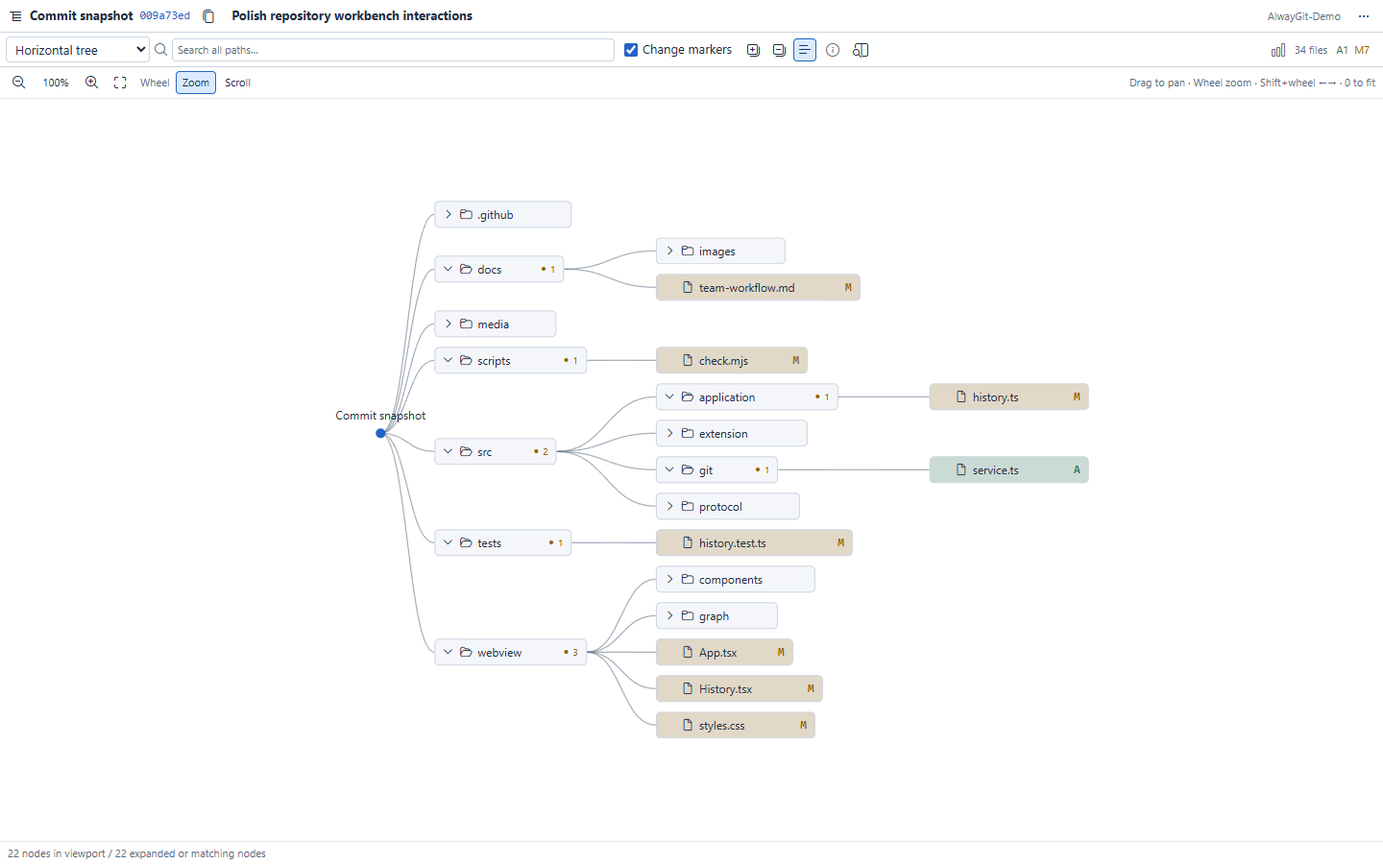
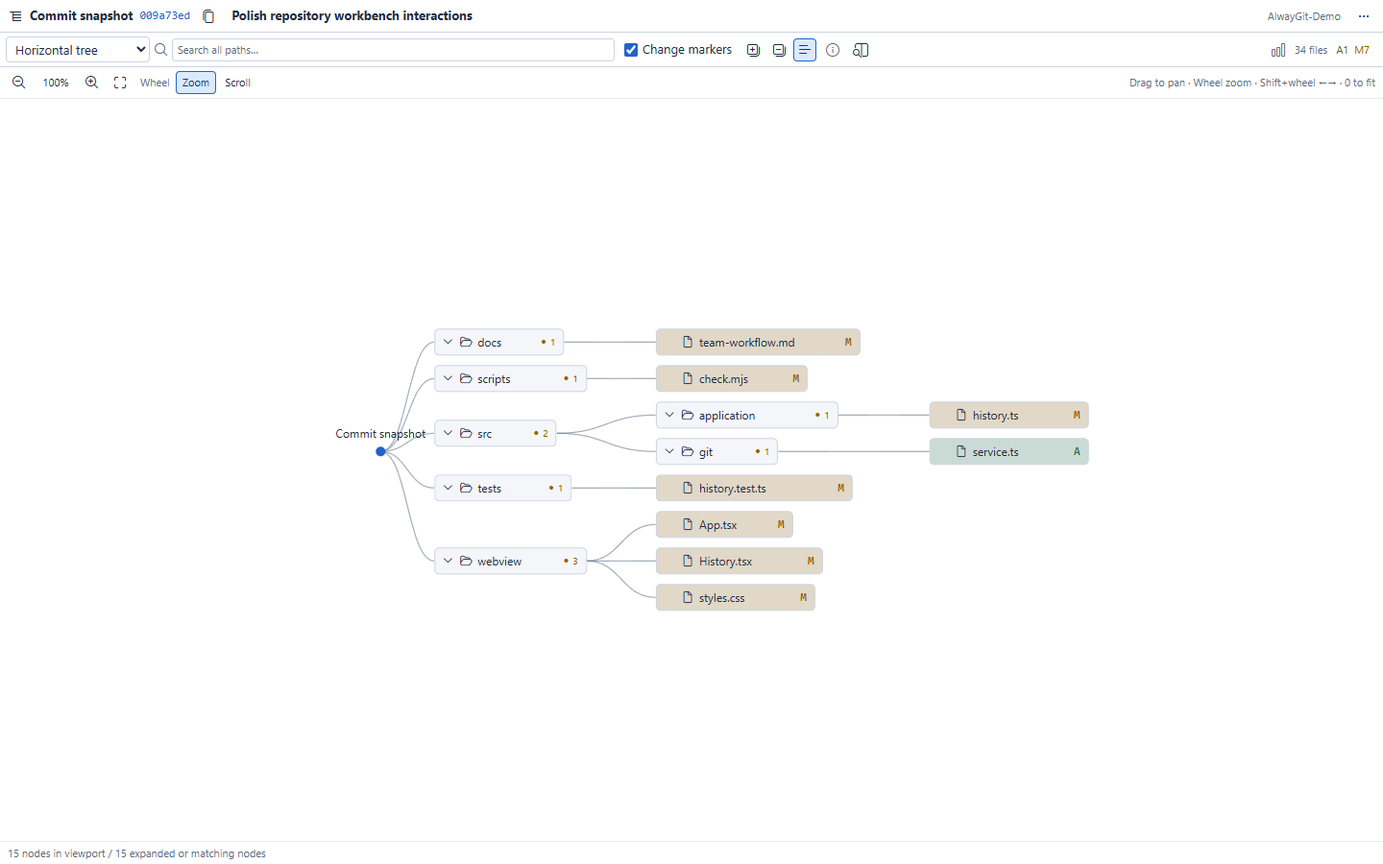
fix: 文件树聚焦时仅显示变更及必要目录

diff --git a/tests/commit-tree.test.ts b/tests/commit-tree.test.ts
@@ -20,8 +20,13 @@ function entry(path: string, type: RevisionTreeEntry['type'] = 'blob'): Revision
   };
 }
 describe('independent Commit snapshots', () => {
-  it('focuses changed leaves while retaining collapsed sibling directories and correct tree guides', () => {
+  it('focuses changed leaves and their ancestors with correct guides even after manual expansion', () => {
     const entries = [
+      entry('.github', 'tree'),
+      entry('.github/workflows', 'tree'),
+      entry('.github/workflows/ci.yml'),
+      entry('media', 'tree'),
+      entry('media/icon.png'),
       entry('README.md'),
       entry('src', 'tree'),
       entry('src/components', 'tree'),
@@ -33,6 +38,8 @@ describe('independent Commit snapshots', () => {
       entry('src/utils/helper.ts'),
       entry('docs', 'tree'),
       entry('docs/guide.md'),
+      entry('docs/images', 'tree'),
+      entry('docs/images/workbench.png'),
     ];
     const nodes = snapshotNodes(entries, [
         { path: 'src/components/Editor.vue', status: 'M' } as RevisionTreeChange,
@@ -42,16 +49,13 @@ describe('independent Commit snapshots', () => {
       before = JSON.stringify(nodes),
       focused = snapshotRows(nodes, expanded, '', { changesOnly: true });
     expect(focused.map((row) => row.node.entry.path)).toEqual([
-      'docs',
       'src',
       'src/components',
-      'src/components/dialogs',
       'src/components/Editor.vue',
-      'src/utils',
     ]);
     expect(focused.find((row) => row.node.change)).toMatchObject({
       depth: 2,
-      guides: [false, true],
+      guides: [false, false],
       last: true,
       changeHighlight: 'M',
     });
@@ -60,14 +64,18 @@ describe('independent Commit snapshots', () => {
         (row) => row.node.entry.path,
       ),
     ).toEqual(['src/components/Toolbar.vue']);
-    const revealed = snapshotRows(nodes, new Set([...expanded, 'docs']), '', {
-      changesOnly: true,
-      revealedDirectories: new Set(['docs']),
-    });
-    expect(revealed.some((row) => row.node.entry.path === 'docs/guide.md')).toBe(true);
-    expect(revealed.some((row) => row.node.entry.path === 'src/components/Toolbar.vue')).toBe(
-      false,
-    );
+    expect(
+      snapshotRows(nodes, expanded, 'guide.md', { changesOnly: true }).map(
+        (row) => row.node.entry.path,
+      ),
+    ).toEqual(['docs/guide.md']);
+    expect(
+      snapshotRows(nodes, new Set(flat.map((node) => node.id)), '', { changesOnly: true }),
+    ).toEqual(focused);
+    expect(snapshotRows(nodes, new Set(), '', { changesOnly: true })).toMatchObject([
+      { node: { id: 'src' }, depth: 0, guides: [], last: true, changeHighlight: 'summary' },
+    ]);
+    expect(snapshotRows(nodes, expanded, '', { changesOnly: true })).toEqual(focused);
     expect(JSON.stringify(nodes)).toBe(before);
     expect(
       snapshotRows(nodes, new Set(flat.map((node) => node.id))).map((row) => row.node.entry.path),
@@ -117,11 +125,7 @@ describe('independent Commit snapshots', () => {
       node: { deleted: true },
       depth: 2,
     });
-    expect(
-      snapshotRows(snapshotNodes(entries), new Set(), '', { changesOnly: true }).every(
-        (row) => row.node.entry.type === 'tree',
-      ),
-    ).toBe(true);
+    expect(snapshotRows(snapshotNodes(entries), new Set(), '', { changesOnly: true })).toEqual([]);
   });
   it('retains only a fixed repository and full Commit ID when restoring a tree tab', () => {
     const state = { commitTree: { repoId: 'repository', revision: 'a'.repeat(40) } };

diff --git a/webview/CommitTree.tsx b/webview/CommitTree.tsx
@@ -41,7 +41,6 @@ import { treeDirectoryExpanded } from '../src/protocol/tree-expansion';
 interface ChangeFocus {
   key: string;
   expanded: ReadonlySet<string>;
-  revealedDirectories: ReadonlySet<string>;
 }
 
 export function CommitTree({
@@ -286,7 +285,6 @@ export function CommitTree({
     () =>
       snapshotRows(nodes, expanded, query, {
         changesOnly: !!changeFocus,
-        revealedDirectories: changeFocus?.revealedDirectories,
       }),
     [nodes, expanded, query, changeFocus],
   );
@@ -362,7 +360,6 @@ export function CommitTree({
                 .filter((node) => node.entry.type === 'tree' && node.summary)
                 .map((node) => node.id),
             ),
-            revealedDirectories: new Set(),
           },
     );
     setFitRequest((value) => value + 1);
@@ -373,16 +370,10 @@ export function CommitTree({
       stopExpansion();
       const opened = !expanded.has(node.id);
       if (changeFocus) {
-        const next = new Set(changeFocus.expanded),
-          revealed = new Set(changeFocus.revealedDirectories);
-        if (opened) {
-          next.add(node.id);
-          revealed.add(node.id);
-        } else {
-          next.delete(node.id);
-          revealed.delete(node.id);
-        }
-        setFocusedChanges({ ...changeFocus, expanded: next, revealedDirectories: revealed });
+        const next = new Set(changeFocus.expanded);
+        if (opened) next.add(node.id);
+        else next.delete(node.id);
+        setFocusedChanges({ ...changeFocus, expanded: next });
         return;
       }
       setTemporaryExpanded((current) => {

diff --git a/webview/commitTreeModel.ts b/webview/commitTreeModel.ts
@@ -154,7 +154,7 @@ export function snapshotRows(
   nodes: SnapshotNode[],
   expanded: ReadonlySet<string>,
   query = '',
-  options: { changesOnly?: boolean; revealedDirectories?: ReadonlySet<string> } = {},
+  options: { changesOnly?: boolean } = {},
 ): SnapshotRow[] {
   const rows: SnapshotRow[] = [],
     needle = query.trim().toLocaleLowerCase();
@@ -167,11 +167,9 @@ export function snapshotRows(
     const status = node.change.status[0];
     return status in countKeys ? (status as SnapshotChangeHighlight) : 'M';
   };
-  const visit = (list: SnapshotNode[], guides: boolean[], revealUnchanged = false) => {
+  const visit = (list: SnapshotNode[], guides: boolean[]) => {
     const visible =
-      needle || !options.changesOnly || revealUnchanged
-        ? list
-        : list.filter((node) => node.entry.type === 'tree' || node.change);
+      needle || !options.changesOnly ? list : list.filter((node) => node.change || node.summary);
     visible.forEach((node, index) => {
       const last = index === visible.length - 1;
       if (needle) {
@@ -180,8 +178,7 @@ export function snapshotRows(
         visit(node.children, []);
       } else {
         rows.push({ node, depth: guides.length, guides, last, changeHighlight: highlight(node) });
-        if (expanded.has(node.id))
-          visit(node.children, [...guides, !last], options.revealedDirectories?.has(node.id));
+        if (expanded.has(node.id)) visit(node.children, [...guides, !last]);
       }
     });
   };

diff --git a/src/i18n/generated.ts b/src/i18n/generated.ts
@@ -7263,8 +7263,8 @@ export const catalog = {
     "zh-CN": "调整文件树与预览大小"
   },
   "tree.expandChanges": {
-    "en": "Only expand changed files",
-    "zh-CN": "只展开修改文件"
+    "en": "Show changes only",
+    "zh-CN": "只显示变更"
   },
   "tree.comparisonBase": {
     "en": "Compared with",

diff --git a/docs/WORKBENCH_SPEC.en.md b/docs/WORKBENCH_SPEC.en.md
@@ -260,7 +260,7 @@ File trees offer Directory list, Horizontal tree, Radial tree, and Compact verti
 
 The divider between the file tree and preview supports pointer dragging and keyboard arrows, Home, and End, retaining usable minimum sizes on both sides. Wide windows split horizontally; narrow windows stack vertically. The current tab remembers separate ratios for each orientation across closing/reopening the preview and switching layouts, bounded by available space. Resizing the divider or window preserves the canvas scale and reading center; Fit remains available explicitly.
 
-Folder expansion state is local cache stored by repository ID in extension global storage for the current VS Code user profile. The same repository shares it across workspaces, commits, branches, single-commit and two-commit comparisons, and all four layouts; repositories remain isolated. Reading or managing the cache migrates legacy records from the current workspace, deleting each legacy record only after a successful save. Legacy records from other workspaces migrate when those workspaces are opened. Cache contains only an automatic/expanded/collapsed mode and repository-relative directory paths explicitly chosen by the user, without per-Commit expansion snapshots. Clicking a directory remembers its choice. Completing Expand All remembers expanded mode; Collapse All remembers collapsed mode. Both clear individual overrides. Cancelling batched expansion, searching, and Only expand changed files affect only the temporary view; manually opening or closing folders while focused also leaves the cache unchanged. Collapsing a parent retains child choices. Missing paths retain their cache without applying it; a file at a formerly remembered directory path ignores the choice, and renames are not inferred. Historical virtual directories also use their paths for preferences.
+Folder expansion state is local cache stored by repository ID in extension global storage for the current VS Code user profile. The same repository shares it across workspaces, commits, branches, single-commit and two-commit comparisons, and all four layouts; repositories remain isolated. Reading or managing the cache migrates legacy records from the current workspace, deleting each legacy record only after a successful save. Legacy records from other workspaces migrate when those workspaces are opened. Cache contains only an automatic/expanded/collapsed mode and repository-relative directory paths explicitly chosen by the user, without per-Commit expansion snapshots. Clicking a directory remembers its choice. Completing Expand All remembers expanded mode; Collapse All remembers collapsed mode. Both clear individual overrides. Cancelling batched expansion, searching, and Show changes only affect only the temporary view; manually opening or closing folders while focused also leaves the cache unchanged. Collapsing a parent retains child choices. Missing paths retain their cache without applying it; a file at a formerly remembered directory path ignores the choice, and renames are not inferred. Historical virtual directories also use their paths for preferences.
 
 Settings → Local cache lists repositories with saved folder expansion state, including removed repositories, without requiring a selected or reopened repository. Entries show names, paths, registration status, and directory record counts. Legacy entries with missing metadata retain their repository ID, and unknown registration status is explicitly marked. Individual, selected, and all repositories can be cleared after confirmation; removed repositories have a selection shortcut. Clearing takes effect immediately and cannot be reversed by cancelling Settings. It deletes only folder expansion cache and restores automatic mode, preserving repository files, Git history, drafts, and other settings. Legacy workspace copies of cleared repositories are never imported again. Clearing all also blocks old folder state from unopened workspaces, while new directory choices remain writable. Tree tabs for the repository in the same extension host receive default preferences; other windows obtain saved state when they read it again.
 
@@ -270,7 +270,7 @@ The file-tree toolbar information icon explains automatic saving, restoration on
 
 Independent tree tabs use a compact two-row top area in wide windows. The first row shows the view type, Commit ID or base → target direction, a single-line subject, and repository name; Snapshot details opens an overlay containing the full message, author/date, full IDs, and repository path. The toolbar combines presentation, path search, Change markers, directory actions, preview, and compact statistics, omitting zero submodules and zero-valued change categories. The statistics overlay retains complete counts, comparison baseline, and the virtual-deletion explanation. Merge Parent remains in the toolbar while markers are enabled. Narrow windows progressively hide secondary metadata and move directory/preview actions into More tree actions; narrow toolbars wrap as needed, retaining a usable Merge Parent selector even at the smallest widths. Overlays leave tree/graph space unchanged and close with their close button, Escape, or an outside click. Separate steady-state count/comparison rows are removed; loading/expansion progress, the first-use memory hint, and errors remain visible when needed. All four layouts share this header without changing file row height.
 
-For single commits, “Change markers” defaults off. When enabled, the complete snapshot receives themed letter badges: A for additions, M for content or mode changes, R for renames/moves, C for copies, and T for type changes. Renames decorate only the destination and show the original path. Deleted entries use D, strikethrough, and an explicit virtual-entry label at the old location; missing historical directories contain only deleted entries. Real files, real directories, and historical entries with the same path remain distinct. Directory markers summarize descendant changes. A collapsed directory highlights its summary; after expansion, only actual changed entries and still-collapsed changed subdirectories receive highlights. Expanded ancestors retain summary markers without their own highlights. All four layouts use this rule from the expanded structure before canvas viewport clipping; matching directories in flat search retain their own summary highlight. Snapshot file/submodule totals count only real entries; deletion counts remain separate. The comparison defaults to the first parent; selecting a Merge Parent changes markers, statistics, and change previews without changing the snapshot. Root commits compare against an empty tree. Missing shallow-parent objects disable changes while preserving snapshot browsing. Only expand changed files toggles a temporary focus: it opens changed files’ ancestors, collapses other directories, and hides unchanged sibling files while keeping unrelated directory nodes. Manually opening a directory reveals its ordinary files. Clicking again restores saved expansion preferences. Expand All, Collapse All, disabling markers, or changing the comparison target exits focus. Search still covers the complete snapshot; clearing it restores focus. Focus survives layout switches and fits the graph when activated. The action is disabled until indexing and changes are ready, or when there are no changes. Unchanged files preview their saved content; changed files preview their selected-parent Diff, with an empty deleted side.
+For single commits, “Change markers” defaults off. When enabled, the complete snapshot receives themed letter badges: A for additions, M for content or mode changes, R for renames/moves, C for copies, and T for type changes. Renames decorate only the destination and show the original path. Deleted entries use D, strikethrough, and an explicit virtual-entry label at the old location; missing historical directories contain only deleted entries. Real files, real directories, and historical entries with the same path remain distinct. Directory markers summarize descendant changes. A collapsed directory highlights its summary; after expansion, only actual changed entries and still-collapsed changed subdirectories receive highlights. Expanded ancestors retain summary markers without their own highlights. All four layouts use this rule from the expanded structure before canvas viewport clipping; matching directories in flat search retain their own summary highlight. Snapshot file/submodule totals count only real entries; deletion counts remain separate. The comparison defaults to the first parent; selecting a Merge Parent changes markers, statistics, and change previews without changing the snapshot. Root commits compare against an empty tree. Missing shallow-parent objects disable changes while preserving snapshot browsing. Show changes only toggles a temporary focus: it retains only A/M/D/R/C/T entries and their necessary ancestor directories, opening those ancestors automatically. Unrelated directories and unchanged files are hidden at every level, including unchanged top-level branches. Historical directories containing only deletions retain the necessary paths. Manually closing or reopening directories while focused still shows only changes; exit focus or use search to browse ordinary files. Clicking again restores saved expansion preferences. Expand All, Collapse All, disabling markers, or changing the comparison target exits focus. Search still covers the complete snapshot; clearing it restores focus. Focus survives layout switches and fits the graph when activated. The action is disabled until indexing and changes are ready, or when there are no changes. Unchanged files preview their saved content; changed files preview their selected-parent Diff, with an empty deleted side.
 
 With exactly two Commits selected, Graph's context menu offers “View file tree differences”; the two-commit comparison details heading provides the same action as an icon. The independent tab binds one repository and two full base/target OIDs, reusing tabs with the same direction. Opening reuses a matching displayed comparison direction or the ordinary Commit comparison's ancestor order. A direction explicitly swapped in details is preserved; timestamps never determine order. The page labels base → target and compares the two trees directly without using a merge base. The complete target tree forms the snapshot, with “Change markers” enabled initially and an option to hide markers. Markers, virtual deletions, and previews follow the single-commit rules; deleted historical contents come from the base, and snapshot totals exclude deletions. Two-commit tabs have no Parent selector. Reverse opens or activates the fixed reverse-comparison tab without rebinding the current tab or changing main-workbench selection or drafts. Single-commit Browse Commit Tree and exactly-two-commit View file tree differences appear in a separated final group at the bottom of their Graph context menus; other multi-selection counts have no tree-comparison entry.
 

diff --git a/docs/USER_MANUAL.en.md b/docs/USER_MANUAL.en.md
@@ -8,7 +8,7 @@ Select More actions → Help & Guide, with its question-mark icon, in the upper-
 
 <a id="screenshot-notes"></a>
 
-**About the screenshots:** Both editions share the same images. Figures 51–52 were captured on 2026-10-30 from the 1.8.0 source build (source baseline `e7b7e0f`), using the same `AlwayGit-Demo` sample snapshot for a horizontal tree with change markers and a complete radial tree. Both READMEs reuse these images.  Figures 03, 06, and 14 were captured on 2026-10-29 from the 1.8.0 source build (UI baseline `0c956b5`), showing two topic commits on the Merge side lane, 18 px lane spacing, continuous path colors, and node outlines matching their paths. Figures 04–05, 07, 09, 11, 13, 18, 23, 29, 38, 40–47, and 49–50 were captured on 2026-10-28 from the 1.8.0 source build (UI baseline `67d3097`), reflecting the default unified list, current selection states, and Diff styles. Figure 49 explicitly demonstrates optional split mode; Figure 50 shows the navigation boundary notice. Figures 05 and 38 retain their original settings scenes and omit the later path-display and wrapping options; use the current interface for those reading preferences. Other figures retain their 2026-10-24 source. Some still show the old sample name `AlwayGit`, original paths, and surrounding toolbar; the main sample repository is now `AlwayGit-Demo`. These differences do not change the dialog operations illustrated. Background Graphs in other images retain the original sample history; see [history filtering](#section-04-01) for how to read the current graph. Images show actual Workbench components with an English interface, the default theme on a light host, and sample data; the language page previews Chinese. Repository, author, Commit ID, history, Git-operation, and terminal states come from isolated sample RPC data, not real project records or validation of real remotes, authentication, Git, or terminal execution. The narrow sidebar figure demonstrates region navigation at that viewport size. Images exclude native VS Code chrome, native confirmations, and system folder pickers. Your names, paths, Commit IDs, and saved interface preferences may differ. See [Validation](VALIDATION.en.md#manual-screenshots) for the capture process and verification scope.
+**About the screenshots:** Both editions share the same images. Figures 51–52 share one `AlwayGit-Demo` sample snapshot and are reused in both READMEs. Figure 51 was updated on 2026-10-30 from the 1.8.0 source build (`186779a` plus this Show changes only change), showing only changed files and their necessary directories. Figure 52 retains the complete radial tree captured the same day from baseline `e7b7e0f`. Figures 03, 06, and 14 were captured on 2026-10-29 from the 1.8.0 source build (UI baseline `0c956b5`), showing two topic commits on the Merge side lane, 18 px lane spacing, continuous path colors, and node outlines matching their paths. Figures 04–05, 07, 09, 11, 13, 18, 23, 29, 38, 40–47, and 49–50 were captured on 2026-10-28 from the 1.8.0 source build (UI baseline `67d3097`), reflecting the default unified list, current selection states, and Diff styles. Figure 49 explicitly demonstrates optional split mode; Figure 50 shows the navigation boundary notice. Figures 05 and 38 retain their original settings scenes and omit the later path-display and wrapping options; use the current interface for those reading preferences. Other figures retain their 2026-10-24 source. Some still show the old sample name `AlwayGit`, original paths, and surrounding toolbar; the main sample repository is now `AlwayGit-Demo`. These differences do not change the dialog operations illustrated. Background Graphs in other images retain the original sample history; see [history filtering](#section-04-01) for how to read the current graph. Images show actual Workbench components with an English interface, the default theme on a light host, and sample data; the language page previews Chinese. Repository, author, Commit ID, history, Git-operation, and terminal states come from isolated sample RPC data, not real project records or validation of real remotes, authentication, Git, or terminal execution. The narrow sidebar figure demonstrates region navigation at that viewport size. Images exclude native VS Code chrome, native confirmations, and system folder pickers. Your names, paths, Commit IDs, and saved interface preferences may differ. See [Validation](VALIDATION.en.md#manual-screenshots) for the capture process and verification scope.
 
 ## Read by task
 
@@ -379,9 +379,9 @@ Commits appear newest first. An ordinary Merge continues along the receiving bra
 
 ![Figure 43 Full Tree pinned to a Commit, with an expanded directory and a historical file compared with the Working Tree](images/user-manual/figure-43.png)
 
-For a separate directory view, right-click a Commit and choose **Browse Commit Tree** to open its snapshot in an independent tab. Choose a list, horizontal, radial, or vertical view and optionally show changes relative to a parent. Clicking a file shows that revision's content, or its Diff when marked as changed. This auxiliary view does not check out a branch or modify the Working Tree.
+For a separate directory view, right-click a Commit and choose **Browse Commit Tree** to open its snapshot in an independent tab. Choose a list, horizontal, radial, or vertical view and optionally show changes relative to a parent. **Show changes only** retains changed files and their necessary directories; click it again to restore saved folder expansion preferences. Clicking a file shows that revision's content, or its Diff when marked as changed. This auxiliary view does not check out a branch or modify the Working Tree.
 
-![Figure 51 Horizontal tree of an AlwayGit-Demo commit snapshot, marking added and modified files](images/user-manual/figure-51.png)
+![Figure 51 Horizontal tree of an AlwayGit-Demo commit snapshot, showing only changed files and their necessary directories](images/user-manual/figure-51.png)
 
 ![Figure 52 Radial tree of the same sample commit, showing the complete directory structure](images/user-manual/figure-52.png)
 

diff --git a/docs/ISSUES.md b/docs/ISSUES.md
@@ -2,6 +2,16 @@
 
 本文记录已确认的项目 Bug、异常与明确影响现有行为的实现不足；当前产品行为以 [工作台规格](WORKBENCH_SPEC.md) 为准。
 
+## BUG-171：文件树变更聚焦仍显示无关目录分支
+
+- 日期：2026-10-30
+- 状态：已解决
+- 现象：开启“只展开修改文件”后，`.github`、`media`、`docs/images` 等没有变更的目录仍以折叠节点占据分支；手动展开目录还会带回未修改文件，无法持续聚焦变更路径。
+- 原因：聚焦过滤只隐藏未变更文件，保留全部目录，并通过手动展开例外重新显示普通条目；原规格和测试也固定了这一行为。
+- 解决方案：将入口改为“只显示变更”，共享节点过滤只保留 A/M/D/R/C/T 变更条目及有变更汇总的祖先目录，移除手动展开例外。保留删除记录的历史路径、完整快照搜索、退出聚焦后恢复目录偏好及四种布局的一致行为；同步规格、手册与受影响的横向树截图。
+- 验证方式：类型检查、1983 条双语资源检查、树模型／布局／目录缓存／双语资源／帮助内容 5 个文件共 39 项单测、Webview 生产构建及 tree-canvas-only 无头界面回归通过。覆盖各层级无关分支隐藏、全部变更类型与删除历史路径、重新展开仍只看变更、完整快照搜索及清空恢复、四种布局切换、目录偏好不写入与退出恢复。仅重新采集并检查图 51，同一示例只留下 8 个变更文件与 7 个必要目录。未执行全量测试、可见桌面测试、VSIX 打包、本机安装或远程推送。
+- 相关文件：`webview/commitTreeModel.ts`、`webview/CommitTree.tsx`、`src/i18n/catalogs/tree.json`、`src/i18n/generated.ts`、`tests/commit-tree.test.ts`、`scripts/test-tree-focus-ui.mjs`、`scripts/capture-manual.mjs`、`docs/WORKBENCH_SPEC.md`、`docs/WORKBENCH_SPEC.en.md`、`docs/USER_MANUAL.zh-CN.md`、`docs/USER_MANUAL.en.md`、`docs/images/user-manual/figure-51.png`、`README.md`、`README.zh-CN.md`。
+
 ## BUG-170：独立文件树与预览之间无法调整分栏大小
 
 - 日期：2026-10-30

diff --git a/README.md b/README.md
@@ -10,7 +10,7 @@ Workbench overview rendered with real UI components and an example repository. S
 
 Commit snapshots also offer visual file trees: the horizontal view shows where changes sit in the directory hierarchy, and the radial view shows the same revision's overall structure. Both figures use the manual's `AlwayGit-Demo` sample data.
 
-![AlwayGit-Demo commit snapshot in a horizontal tree, showing directories and the distribution of added and modified files](docs/images/user-manual/figure-51.png)
+![AlwayGit-Demo commit snapshot in a horizontal tree, showing only changed files and their necessary directories](docs/images/user-manual/figure-51.png)
 
 ![The same AlwayGit-Demo commit snapshot in a radial tree, showing its full directory and file structure](docs/images/user-manual/figure-52.png)
 
